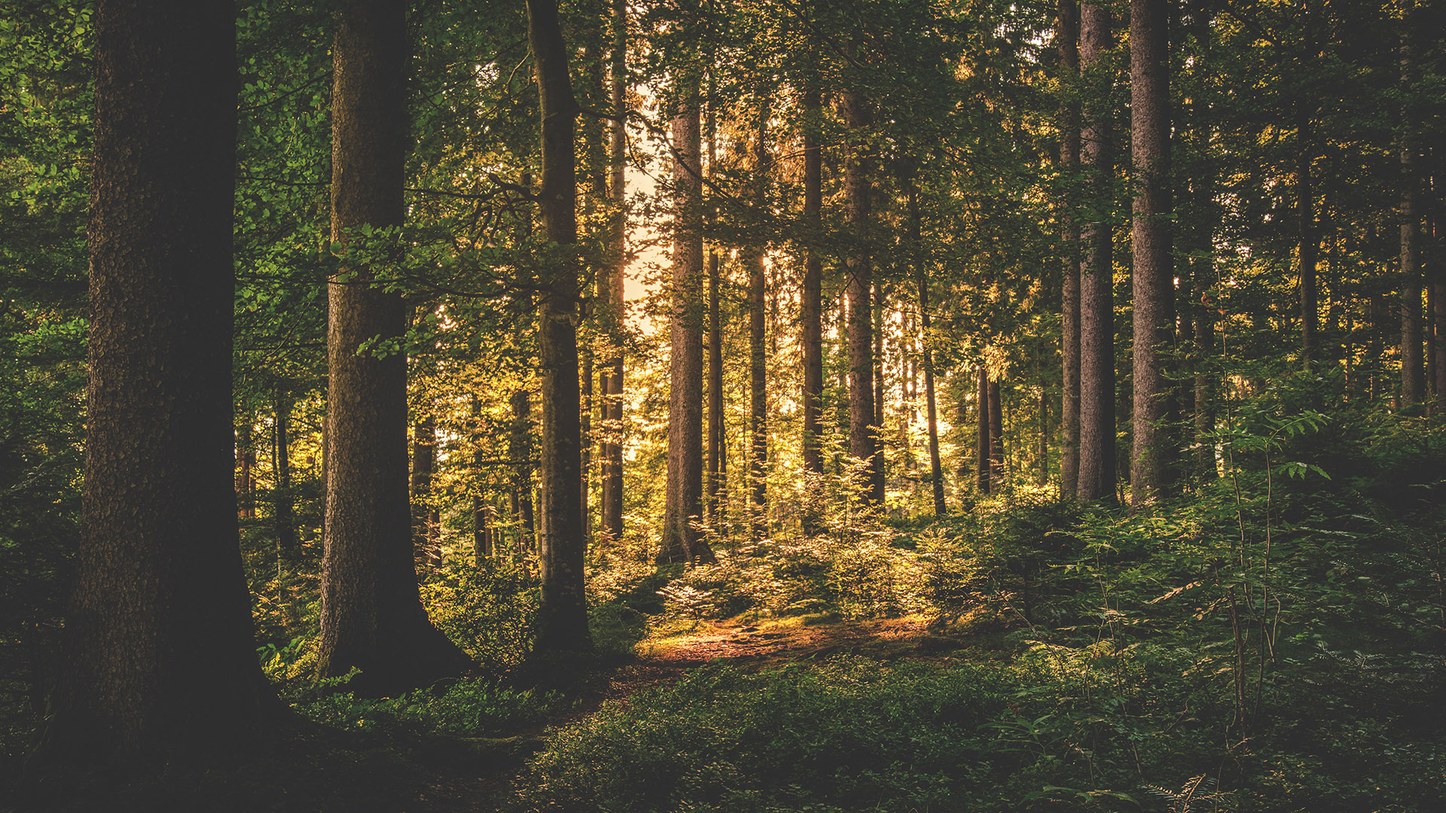
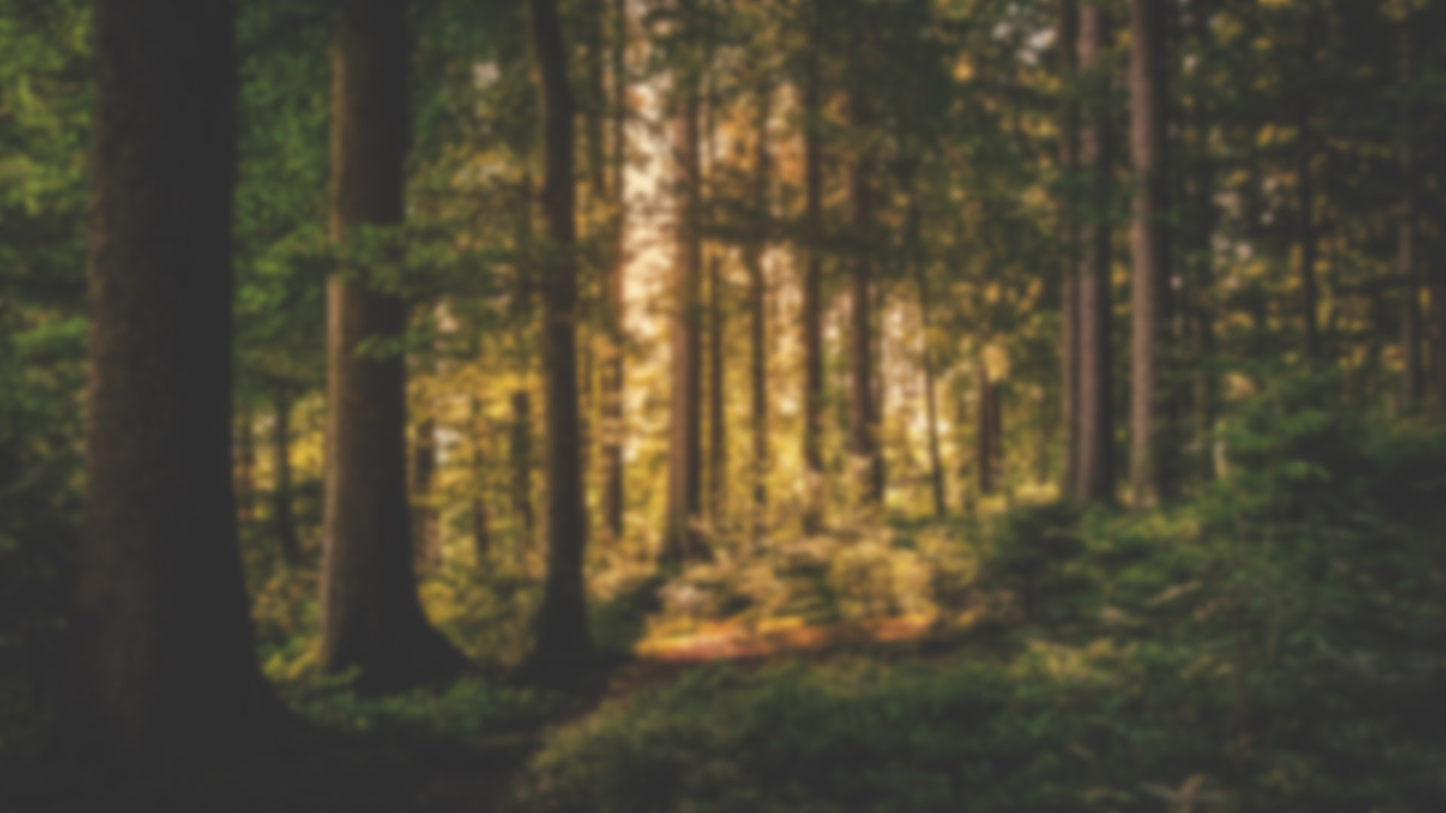
Resolved: https://github.com/rocksdanister/lively-webpage/issues/7

diff --git a/dani/js/script.js b/dani/js/script.js
@@ -109,8 +109,8 @@ async function setScene(name, geometry = quad) {
             u_brightness: { value: 0.8, type: "f" },
             u_normal: { value: 0.5, type: "f" },
             u_zoom: { value: 2.61, type: "f" },
-            u_blur_intensity: { value: 0.5, type: "f" },
-            u_blur_iterations: { value: 16, type: "i" },
+            //u_blur_intensity: { value: 0.5, type: "f" },
+            //u_blur_iterations: { value: 16, type: "i" },
             u_panning: { value: false, type: "b" },
             u_post_processing: { value: true, type: "b" },
             u_lightning: { value: false, type: "b" },
@@ -136,7 +136,6 @@ async function setScene(name, geometry = quad) {
 
           container.style.transform = `translateX(${x}px) translateY(${y}px) scale(1.09)`;
         }
-        //createRainGui();
       }
       break;
     case "synthwave":
@@ -230,33 +229,6 @@ function setDebugMenu(val) {
       .name("Switch Background");
     gui.show();
   }
-}
-
-function createRainGui() {
-  let rain = gui.addFolder("Rain");
-  let bg = gui.addFolder("Background");
-  rain.add(material.uniforms.u_intensity, "value", 0, 1, 0.01).name("Intensity");
-  rain.add(material.uniforms.u_speed, "value", 0, 10, 0.01).name("Speed");
-  rain.add(material.uniforms.u_brightness, "value", 0, 1, 0.01).name("Brightness");
-  rain.add(material.uniforms.u_normal, "value", 0, 3, 0.01).name("Normal");
-  rain.add(material.uniforms.u_zoom, "value", 0.1, 3.0, 0.01).name("Zoom");
-  rain.add(material.uniforms.u_lightning, "value").name("Lightning");
-  bg.add(
-    {
-      picker: function () {
-        document.getElementById("filePicker").click();
-      },
-    },
-    "picker"
-  ).name("Change Background");
-  bg.add(material.uniforms.u_blur_iterations, "value", 1, 64, 1).name("Blur Quality");
-  bg.add(material.uniforms.u_blur_intensity, "value", 0, 10, 0.01).name("Blur");
-  bg.add(settings, "parallaxVal", 0, 5, 1).name("Parallax");
-  bg.add(material.uniforms.u_texture_fill, "value").name("Scale to Fill");
-  bg.add(material.uniforms.u_panning, "value").name("Panning");
-  bg.add(material.uniforms.u_post_processing, "value").name("Post Processing");
-  //rain.open();
-  //bg.open();
 }
 
 document.getElementById("filePicker").addEventListener("change", function () {
